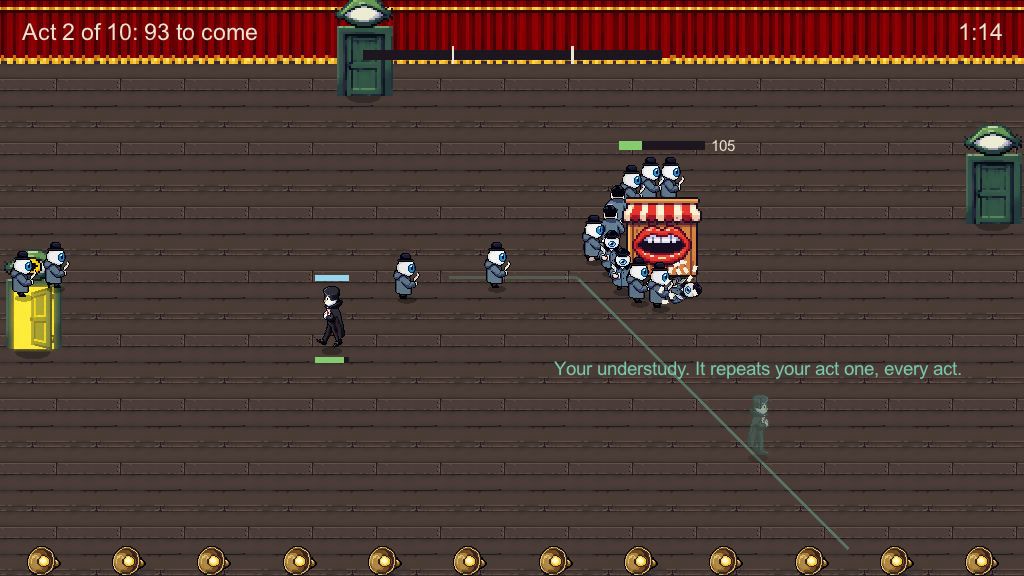
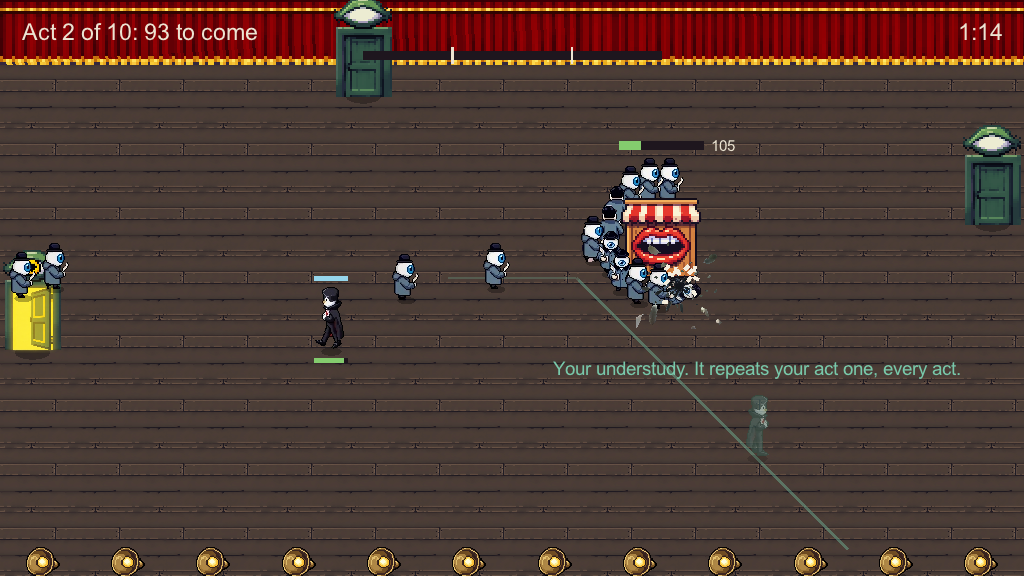
T22: the cards' effects: a thrown card spins with a dark edge, a flick of light at the throwing hand, a burst of suits where a card strikes and a splash of ink and newsprint where its critic falls
Claude-Session: https://claude.ai/code/session_01V4qXWgB4bHFXePzLiSUbYT

diff --git a/CLAUDE.md b/CLAUDE.md
@@ -35,7 +35,7 @@ Three projects, with one-way dependencies: **Core** ← **Game** and **Core.Test
   - `Simulation.ComputeStateHash` is an FNV-1a hash of everything that decides what happens next. State added to the simulation is added to it in the same change, a `float` by its bits; what only the view reads (the positions before the last tick, the events, where a card was thrown from) stays out. It walks every recording whole, so it is for tests and scripted players and not for every frame;
   - a time in `tuning.json` is in seconds and a rule counts it in whole ticks;
   - `tuning.json` at the repository root is the only place a rule's number lives (the tick rate is the one constant in code; the juice's numbers decide no rule and are constants in the view). `Tuning` is the record parsed from it, and `Simulation` is given one by whoever creates it. A new number is a new member of `Tuning` and a new key in the file: an unknown key and a missing key are both refused, at any depth.
-- `src/Understudies.Game` is the MonoGame (DesktopGL) layer: input, drawing, sound. It holds no rules: it feeds the simulation the player's input each tick and draws what the simulation reports, with positions interpolated between the last two ticks. There is no content pipeline. The figures (the magician, the critic, the stagehand, the box office) are pixel-art sprites read at start-up with `Texture2D.FromFile` from `art/ludo/sprites/` (`ReadSheet`; found as `tuning.json` is, and copied beside the built game), and so is the set (plan T07d): the floor's boards and the back wall's curtain, two pictures laid side by side by `Lay` in a batch that lets a picture go round, the three stage doors (a shut picture and a lit one, by `DoorIsOpen`) and the footlights along the front edge, which are drawn by `DrawFigure` as a figure is: the doors under the figures, so that a door hides nobody, and the footlights over them, out while a program is read. Everything else is shapes. A walking figure is a sheet of three rows of three frames for each of three views (toward the viewer, away, and to the right, mirrored for the left); `DrawFigure` picks the view from where the figure goes and the frame from the view's own clock, and draws a sprite pixel as a whole number of screen pixels, unsmoothed, so a figure's size on the screen follows the window in steps (the window opens at 1024 × 576, where a sprite pixel is one screen pixel). The flash is a white copy of the sprite drawn over it, an understudy is the magician's sprite washed with its act's colour, and a standing figure has a shadow. `art/prompt-guide.md` is the recipe a new figure is made by. What makes a blow felt (flashes, scraps, fading bodies, the shake, the hit-stop) is the view's own state, in `Juice.cs`: `UnderstudiesGame.Tick` feeds it the simulation after every tick (whatever else the events drive, the sound for one, is fed there too), the frame's time advances it, and the drawing asks it what to add. The capture mode feeds and advances it the same way, a sixtieth of a second a tick. It is advanced in every phase: between two acts the simulation stands and the juice still settles. Its numbers are named constants at the top of that file. A figure is drawn by `DrawFigure` alone, which is asked for a flash, a fallen pose and an opacity: nothing paints over a figure with a shape of its own, so the juice holds whatever a figure is drawn from. Text is `FontStashSharp.MonoGame` over a system font found at start-up (the first of `FontFiles` that exists; with none the game runs without text and says so on the console), and it is drawn in screen pixels at a size taken from the window, never scaled up from world units. An understudy is the magician's figure through `DrawFigure`'s `tint` and `opacity`, never a figure of its own. The program's screen is `ProgramScreen.cs`, a second part of the one `UnderstudiesGame` class: the panels, the choosing and the card just taken. `Update` reads a frame's presses by the phase the frame began in, so one press never does two things: in a program `ChooseInTheProgram` moves the highlight and takes a card (`Take`), and outside it Space or A is the Vanish and Enter or Start is `GoOn`. Every press there is an edge against `_keysBefore` and `_padBefore`, the stick too, and that is all that keeps a key held since the act from taking a card: an input added to the program must be an edge as well. The view keeps a copy of the offer (`_offered`, made in `Tick` when a program opens), because `Pick` empties the simulation's: the card taken is shown from the copy for `TakenTime`, in which `GoOn` is not called, and a program that ended inside `Tick` is the clock's pick of the leftmost. `Describe` names a card and what it changes, from the tuning. `Write` draws words in screen pixels from a point of the stage (`_scale` and `_corner` are the frame's). The capture's script calls `Pick(0)` and `GoOn` by itself before every tick, so a program takes none of a capture's ticks, and a capture that ends on an act's last tick shows that act's program as it opens. Inside this project `Game` means the namespace, so MonoGame's base class is written `Microsoft.Xna.Framework.Game`.
+- `src/Understudies.Game` is the MonoGame (DesktopGL) layer: input, drawing, sound. It holds no rules: it feeds the simulation the player's input each tick and draws what the simulation reports, with positions interpolated between the last two ticks. There is no content pipeline. The figures (the magician, the critic, the stagehand, the box office) are pixel-art sprites read at start-up with `Texture2D.FromFile` from `art/ludo/sprites/` (`ReadSheet`; found as `tuning.json` is, and copied beside the built game), and so is the set (plan T07d): the floor's boards and the back wall's curtain, two pictures laid side by side by `Lay` in a batch that lets a picture go round, the three stage doors (a shut picture and a lit one, by `DoorIsOpen`) and the footlights along the front edge, which are drawn by `DrawFigure` as a figure is: the doors under the figures, so that a door hides nobody, and the footlights over them, out while a program is read. Everything else is shapes. A walking figure is a sheet of three rows of three frames for each of three views (toward the viewer, away, and to the right, mirrored for the left); `DrawFigure` picks the view from where the figure goes and the frame from the view's own clock, and draws a sprite pixel as a whole number of screen pixels, unsmoothed, so a figure's size on the screen follows the window in steps (the window opens at 1024 × 576, where a sprite pixel is one screen pixel). The flash is a white copy of the sprite drawn over it, an understudy is the magician's sprite washed with its act's colour, and a standing figure has a shadow. `art/prompt-guide.md` is the recipe a new figure is made by. What makes a blow felt (flashes, scraps, fading bodies, the shake, the hit-stop, and the cards' effects of plan T22: a flick at a throwing hand, a burst where a card strikes and one where its critic falls, the two bursts sheets played through once) is the view's own state, in `Juice.cs`: `UnderstudiesGame.Tick` feeds it the simulation after every tick (whatever else the events drive, the sound for one, is fed there too), the frame's time advances it, and the drawing asks it what to add. The capture mode feeds and advances it the same way, a sixtieth of a second a tick. It is advanced in every phase: between two acts the simulation stands and the juice still settles. Its numbers are named constants at the top of that file. A figure is drawn by `DrawFigure` alone, which is asked for a flash, a fallen pose and an opacity: nothing paints over a figure with a shape of its own, so the juice holds whatever a figure is drawn from. Text is `FontStashSharp.MonoGame` over a system font found at start-up (the first of `FontFiles` that exists; with none the game runs without text and says so on the console), and it is drawn in screen pixels at a size taken from the window, never scaled up from world units. An understudy is the magician's figure through `DrawFigure`'s `tint` and `opacity`, never a figure of its own. The program's screen is `ProgramScreen.cs`, a second part of the one `UnderstudiesGame` class: the panels, the choosing and the card just taken. `Update` reads a frame's presses by the phase the frame began in, so one press never does two things: in a program `ChooseInTheProgram` moves the highlight and takes a card (`Take`), and outside it Space or A is the Vanish and Enter or Start is `GoOn`. Every press there is an edge against `_keysBefore` and `_padBefore`, the stick too, and that is all that keeps a key held since the act from taking a card: an input added to the program must be an edge as well. The view keeps a copy of the offer (`_offered`, made in `Tick` when a program opens), because `Pick` empties the simulation's: the card taken is shown from the copy for `TakenTime`, in which `GoOn` is not called, and a program that ended inside `Tick` is the clock's pick of the leftmost. `Describe` names a card and what it changes, from the tuning. `Write` draws words in screen pixels from a point of the stage (`_scale` and `_corner` are the frame's). The capture's script calls `Pick(0)` and `GoOn` by itself before every tick, so a program takes none of a capture's ticks, and a capture that ends on an act's last tick shows that act's program as it opens. Inside this project `Game` means the namespace, so MonoGame's base class is written `Microsoft.Xna.Framework.Game`.
   - the sound is `Sound.cs`, the view's own state like the juice and fed in `Tick` beside it: seven short sounds worked out in code at start-up and handed to MonoGame as `SoundEffect`s (no sound file, no content pipeline), one for each of the event kinds `Throw`, `Hit`, `Kill`, `Vanish`, `BoxOfficeStruck`, `MagicianHurt` and `ApplausePickedUp`. A kind of event that has no sound there is silent. How loud each is, the gap between two starts of one sound and every recipe are named constants at the top of that file. A capture makes no `SoundEffect`, so it opens no audio device, and a machine that has none runs the game silent. A sound cannot be reviewed by a captured frame: a changed one is measured by hand (its length, its peak, that it starts and ends at zero: nothing in the repository does it) and then judged by the owner's ear.
 - `tests/Understudies.Core.Tests` is NUnit: the rule tests and the scripted players that measure the balance (plan T19, decision 22). `ScriptedPlayers` has the two players, the orbit player and the doors player, each a function from the simulation's public surface to one tick's input, with no state and no randomness of its own and Core's arithmetic rule; the one order both pick cards by; and `Play`, which plays a performance to its end and returns its record act by act. The orbit player is played on three circles (`OrbitRadii`: on the box office, close round it, out where the throw still reaches across), and the design has beaten hiding on a seed only when all three lost: a tuning that beats one circle has beaten a script. The doors player holds the newest door, steps back from a critic that is upon it, and goes back to the box office while a critic is at it. The committed tuning is tuned to the guard (plan T20), and `ScriptedPlayersTests.TheGuard_OnTheCommittedTuning_...` is the ordinary test that holds it there: over the seeds 1 to 20 the orbit loses the box office by the end of act six in at least 16 and the doors player finishes act ten in at least 16. A change to `tuning.json`, to a rule or to a player that breaks it is a finding about the design, not a number to loosen. `PrintTheGuardsTable` plays the same performances and prints how each ended, act by act, and the guard's two counts; `PrintTheTableOnAnotherBudget` prints the same on three other budgets. The two `..._EndsInThePinnedStateHashOnEveryMachine` tests are the pinned state hash of decision 9: two scripted performances (the doors player on the committed tuning; the orbit player with a fuller first act, with Vanishes, stuns and blows on the box office) whose hashes, at the end of act three and at the end, must be the same on macOS ARM and in CI on Linux x64. A change to `tuning.json`, to a rule or to a player changes them: pin the numbers again from the failure's message and say so in the pull request. If the two machines ever disagree, do not make it pass: keep a pin for each machine and tell the owner. Every act opens with a curtain in which `Step` only counts the curtain down, so a test scene that counts its ticks from the first tick of an act sets `CurtainTime = 0f` in its own tuning (no curtain); `CurtainTests` are the ones with a curtain.
 - `tuning.json` is copied by the project files beside the tests and beside the built game. The tests read that copy through `CommittedTuning`, so a test never carries its own numbers. The game reads `tuning.json` in the current directory first (the committed file itself, as commands run from the root) and the copy beside the executable otherwise; F5 reads it again while the game runs.

diff --git a/art/prompt-guide.md b/art/prompt-guide.md
@@ -34,6 +34,10 @@ A figure is an ordinary theatre person or thing with one part that is something 
 - The curtain: `--image-type sprite-tiling-horizontal`, "seen flat from the front ... repeating seamlessly left to right". It goes round left to right; its own pixel is twelve file pixels and it is drawn three times that size to be as tall as the back wall.
 - A door or a lamp is a still like a building (see above). The lit door is `ludo image edit` of the shut one ("keep the exact same door frame, size, position and pixel art style ..."): the edit keeps the shape and loses the pixel grid inside the doorway, which is seen only close up.
 
+## An effect
+
+`ludo image create --image-type sprite-vfx --art-style "16-Bit" --aspect-ratio ar_1_1 --n 2`, the effect "captured at its peak, centred, seen flat, no character, no text, no ground", then `ludo sprite animate --image-type sprite-vfx --model forge-pixel --duration 1 --frames 9 --no-loop --frame-size <32 or 64>` with a motion like "bursts outward ... and everything fades away to nothing". A burst that flies apart comes back well; a still shape (a star) hardly moves and does not fade, so the game fades it.
+
 ## Into the game
 
-The file goes to `art/ludo/sprites/` under the name `ReadSheet` is given in `UnderstudiesGame.LoadContent`, and the stills that were returned to `art/ludo/sprites/raw/` (the set's to `art/ludo/set/raw/`).
+The file goes to `art/ludo/sprites/` under the name `ReadSheet` is given in `UnderstudiesGame.LoadContent`, and the stills that were returned to `art/ludo/sprites/raw/` (the set's to `art/ludo/set/raw/`, an effect's to `art/ludo/effects/raw/`).

diff --git a/docs/plan-prototype.md b/docs/plan-prototype.md
@@ -208,6 +208,10 @@ The owner's report from play: a piece is picked up only by walking onto it exact
 - The guard still holds on the new number (orbit 19 of 20, doors 17 of 20), and the two pinned hashes are pinned again.
 - **What it costs, for the owner to weigh.** A critic that touches the magician stands 1.1 from its middle: the old reach of 1.0 left its piece on the floor, and any reach that answers the report takes it without a step. Standing on the box office still earns nothing, but a player that circles near it earns more than before. The review measured 1.4 first (reach 2.0): the orbit on its outer circle went from 0.6 to 1.5 cards a performance and one seed of the middle circle ended in the ovation, so the smaller number was taken. The guard is jumpy here: a reach of 1.0 past the circle gives the orbit 16 of 20, the floor itself.
 
+**T22 The cards' effects.**
+The owner misses effects when the cards are thrown. A thrown card spins as it flies, with a dark edge about its face; a flick of light at the hand that throws it; a burst of the card's suits where it strikes; a splash of ink and torn newsprint where its critic falls, beside the scraps and the fading body there already. They change only the view (`Juice.cs` and the drawing), driven by the events `Throw`, `Hit` and `Kill`. The two bursts are sheets from the tool; at most six pictures and four animations.
+- A captured frame of a fight shows a burst. No test; the owner judges the rest by playing, since a frame does not show a spin or a flick.
+
 ## 6. Stops
 
 | Stop | After | The question the owner answers by playing |
